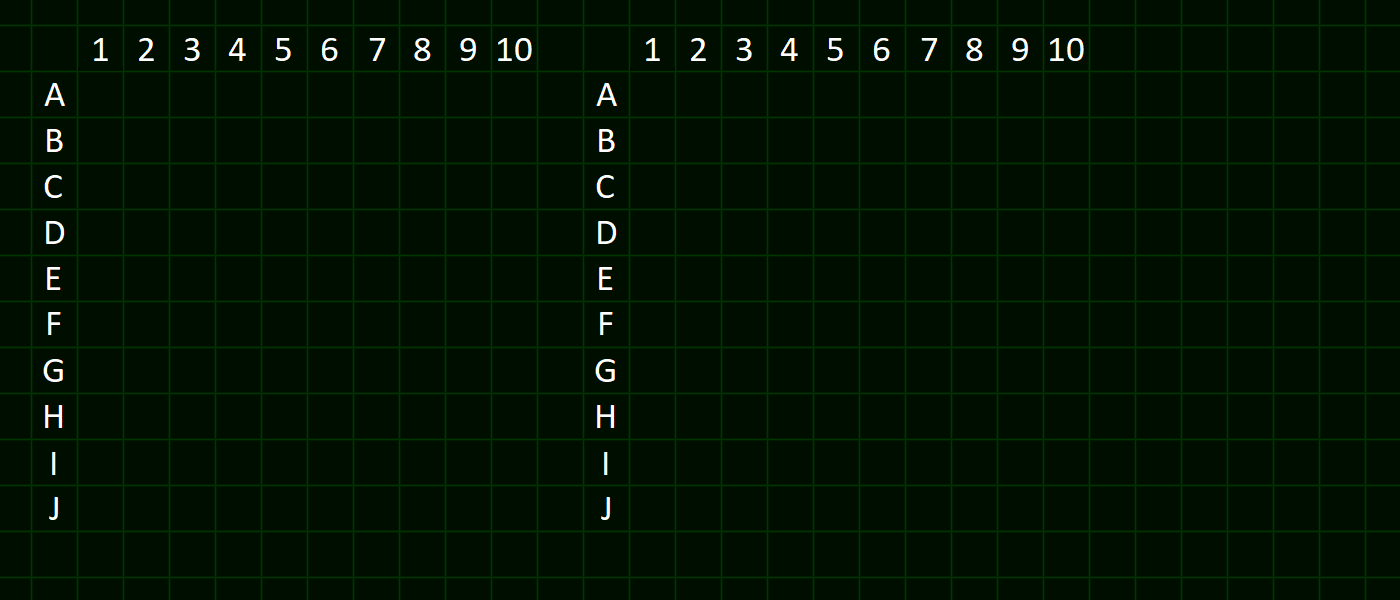
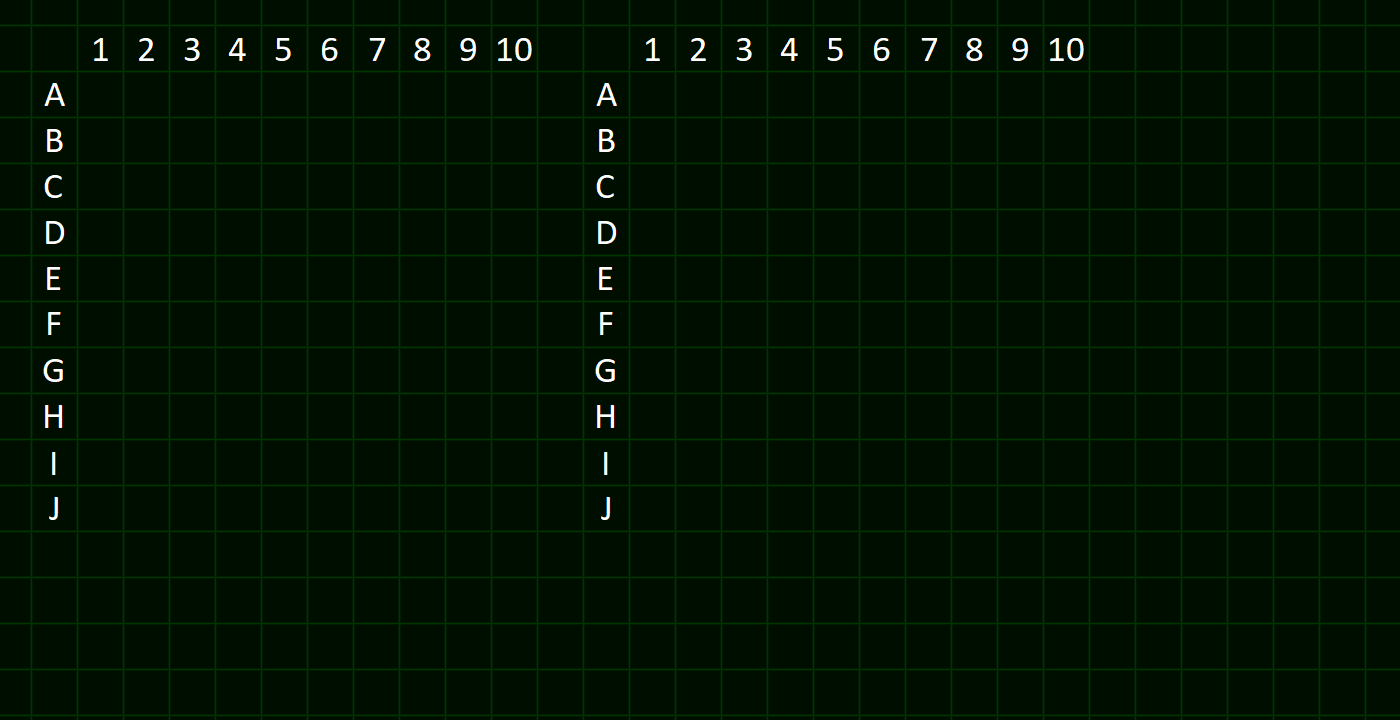
11

diff --git a/src/main/java/org/example/seabattle/Execlass.java b/src/main/java/org/example/seabattle/Execlass.java
@@ -28,8 +28,8 @@ public class Execlass extends Application{
     private final Image splash = new Image("file:src/main/resources/splash.png");
     private final Image targetHit = new Image("file:src/main/resources/cross.png");
     private final Image proximity = new Image("file:src/main/resources/proximity.png");
-    private final Label label1 = new Label("label1 label1 label1");
-    private final Label label2 = new Label("label2 label2 label2");
+    private final Label label1 = new Label(" [ SEA BATTLE ] ");
+    private final Label label2 = new Label("");
     private GridPane grid1 = new GridPane();
     private GridPane grid2 = new GridPane();
     private GridPane grid3 = new GridPane();
@@ -46,10 +46,12 @@ public class Execlass extends Application{
     private Pane[] sidePaneArray = new Pane[4];
     Pane[] paneArrayP1 = new Pane[100];
     Pane[] paneArrayP2 = new Pane[100];
-    private Label[] unitCounter = new Label[4];
+    private final Label[] unitCounter = new Label[4];
     private int player2prepare = 1;
     private boolean visualCheck = true;
     private Process process = new Process();
+    private final Label scCount1 = new Label("Player 1 score: " + process.getScore1());
+    private final Label scCount2 = new Label("Player 2 score: " + process.getScore2());
 
     void clearArea() {
         grid1.getChildren().clear();
@@ -67,10 +69,14 @@ public class Execlass extends Application{
             case 0:
                 grid1.add(p1beginBtn, 2, 4, 7, 1);
                 grid3.getChildren().remove(starterBtn);
+                label1.setText("");
+                label2.setText("");
                 break;
             case 1:
                 grid3.add(rotateBtn, 1, 8, 3, 1);
                 grid2.add(p2beginBtn, 1, 4, 8, 1);
+                label1.setText("click on the right panel");
+                label2.setText("to pick unit");
                 grid1.getChildren().remove(p1beginBtn);
                 prepareFleet();
                 player2prepare = 1;
@@ -79,14 +85,21 @@ public class Execlass extends Application{
                 prepareFleet();
                 grid3.add(rotateBtn, 1, 8, 3, 1);
                 grid2.getChildren().clear();
+                label1.setText("");
+                label2.setText("");
                 visualCheck = false;
                 break;
             case 3:
                 visualCheck = true;
                 grid1.getChildren().clear();
                 grid2.getChildren().clear();
+                grid3.getChildren().remove(enterButton);
+                grid3.add(scCount1, 0, 3, 5, 1);
+                grid3.add(scCount2, 0, 5, 5, 1);
                 process.rebuildSectors();
                 createShootablePanes();
+                grid3.add(starterBtn, 0, 0, 5, 1);
+                starterBtn.setText("FINISH THE BATTLE");
         }
     }
 
@@ -136,7 +149,7 @@ public class Execlass extends Application{
         int subQuantity = 0;
         int cruQuantity = 0;
         int carQuantity = 0;
-        for (Ship ship : process.fleet) {
+        for (Ship ship : process.getFleet()) {
             switch (ship.getShipSize()) {
                 case 1:
                     helQuantity ++;
@@ -344,7 +357,9 @@ public class Execlass extends Application{
                         reticle.setStroke(Color.valueOf("#ffff00"));
                         process.allowFire(true);
                     }
-                    pane.getChildren().add(reticle);
+                    if (pane.getChildren().size() < 1) {
+                        pane.getChildren().add(reticle);
+                    }
             });
             pane.setOnMouseExited(e -> {
                 pane.getChildren().removeAll();
@@ -364,6 +379,7 @@ public class Execlass extends Application{
         int areaToShootAt = sector.getPlayer();
         int x = sector.getCoordinateX();
         int y = sector.getCoordinateY();
+        char a = (char) (y + 65);
         boolean unitHit = false;
         String result;
         if (areaToShootAt == 1) {
@@ -397,7 +413,19 @@ public class Execlass extends Application{
             default:
                 return false;
         }
-        return unitHit;
+        if (areaToShootAt == 2) {
+            if (unitHit) {
+                label2.setText("You hit enemy unit at: " + a  + (x + 1));
+            } else {
+                label2.setText("");
+            }
+            label1.setText("");
+        }
+        if (areaToShootAt == 1) {
+            if (unitHit) {
+                label1.setText("Your unit was hit at: " + a  + (x + 1));
+            }
+        } return unitHit;
     }
 
     void nextTurn(Sector sector) {
@@ -406,8 +434,8 @@ public class Execlass extends Application{
         if (streak)
             return;
         process.setGamestate(4);
-        do {
-            // gdy dodamy możliwość grania na 2 graczy - dodać warunek do computerIsShooting()
+        do {//gdy dodamy możliwość grania na 2 os.- dodać warunek do computerIsShooting()
+
             Sector targetSector = process.computerIsShooting();
             try {
                 Thread.sleep(100);
@@ -418,7 +446,26 @@ public class Execlass extends Application{
         } while (streak);
         process.setGamestate(3);
         int evaluation = process.evaluate();
-        System.out.println(evaluation);
+        if (evaluation != 0) {
+            finish(evaluation);
+        }
+    }
+
+    void finish(int player) {
+        int evaluation;
+        if (player == 0) {
+            evaluation = process.evaluate();
+            player = evaluation;
+        }
+        process.setGamestate(5);
+        grid2.getChildren().clear();
+        visualCheck = true;
+        showArea(process.getP1sectors(), grid1);
+        showArea(process.getP2sectors(), grid2);
+        grid3.getChildren().remove(starterBtn);
+        grid3.add(enterButton, 0, 6, 5, 1);
+        label1.setText("END OF GAME");
+        label2.setText("Player " + player + " wins.");
     }
 
     @Override
@@ -460,6 +507,7 @@ public class Execlass extends Application{
             grid2.getRowConstraints().add(rowConstr);
         }
         // siatka do usunięcia później
+        grid0.setGridLinesVisible(true);
         grid1.setGridLinesVisible(true);
         grid2.setGridLinesVisible(true);
         grid3.setGridLinesVisible(true);
@@ -477,14 +525,20 @@ public class Execlass extends Application{
         // FIXME - podczas ustawiania jednostek zostają zielone kwadraty, a nie powinny.
         // czy da się napisać tak by lambda podała "e" do pick() ?
 
-        label1.setPadding(new Insets(0, 50, 0, 120));
+        label1.setPadding(new Insets(0, 50, 50, 50));
         label1.setFont(new Font("Arial", 32));
         label1.setTextFill(Color.web("#FFF"));
         label1.setTextAlignment(TextAlignment.LEFT);
-        label2.setPadding(new Insets(0, 120, 0, 100));
+        label2.setPadding(new Insets(0, 50, 50, 140));
         label2.setFont(new Font("Arial", 32));
         label2.setTextFill(Color.web("#FFF"));
         label2.setTextAlignment(TextAlignment.JUSTIFY);
+        scCount1.setFont(new Font("Arial", 24));
+        scCount1.setTextFill(Color.web("#FFF"));
+        scCount1.setTextAlignment(TextAlignment.LEFT);
+        scCount2.setFont(new Font("Arial", 24));
+        scCount2.setTextFill(Color.web("#FFF"));
+        scCount2.setTextAlignment(TextAlignment.LEFT);
         activateAiBtn.setFont(new Font("Arial", 20));
         starterBtn.setFont(new Font("Arial", 20));
         p1beginBtn.setFont(new Font("Arial", 20));
@@ -492,7 +546,13 @@ public class Execlass extends Application{
         rotateBtn.setFont( new Font("Arial", 20));
         grid3.add(starterBtn, 0, 4, 4, 1);
 
-        starterBtn.setOnAction(e -> buttonActions());
+        starterBtn.setOnAction(e -> {
+            if (process.getGamestate() == -1) {
+                buttonActions();
+            } else {
+                finish(0);
+            }
+        });
         p1beginBtn.setOnAction(e -> buttonActions());
         p2beginBtn.setOnAction(e -> {
             grid1.getChildren().clear();
@@ -509,15 +569,10 @@ public class Execlass extends Application{
             buttonActions();
             grid3.getChildren().clear();
             player2preparation();
-            grid3.add(clearButton, 0, 0, 4, 1);
-            grid3.add(refreshButton, 0, 2, 4, 1);
+            grid3.add(clearButton, 0, 2, 4, 1);
+            grid3.add(refreshButton, 0, 4, 4, 1);
             grid3.add(enterButton, 0, 6, 5, 1);
-            visualCheck = true;
-            process.autoDeployAll();
-            showArea(process.getP1sectors(), grid1);
-            showArea(process.getP2sectors(), grid2);
-            updateUnitCounter();
-            visualCheck = false;
+            process.autoDeployAll(); //tu winien być argument którą flotę wstawić
         });
         rotateBtn.setOnAction(e -> {
             hullSectors.clear();
@@ -564,7 +619,6 @@ public class Execlass extends Application{
         resetButton.setFont(new Font("Arial", 20));
         grid2.add(resetButton, 0, 2, 4, 1);
         resetButton.setOnAction(e -> {
-            process = new Process();
             clearArea();
             showArea(process.getP1sectors(), grid1);
             showArea(process.getP2sectors(), grid2);
@@ -590,7 +644,13 @@ public class Execlass extends Application{
         grid0.add(label1, 0, 1);
         grid0.add(label2, 1, 1);
 
-        Scene scene = new Scene(grid0, 1400, 600, Color.BLACK);
+        ColumnConstraints constrX460 = new ColumnConstraints(460);
+        RowConstraints constrY560 = new RowConstraints(560);
+        grid0.getRowConstraints().add(constrY560);
+        grid0.getColumnConstraints().add(constrX460);
+
+
+        Scene scene = new Scene(grid0, 1400, 720, Color.BLACK);
         primaryStage.setTitle("seaBattle");
         primaryStage.setScene(scene);
         primaryStage.show();

diff --git a/src/main/java/org/example/seabattle/Process.java b/src/main/java/org/example/seabattle/Process.java
@@ -9,13 +9,15 @@ import java.util.Random;
 
 public class Process {
     private int gamestate = -1;
+    private int score1 = 0;
+    private int score2 = 0;
     private Ship unitInProcess;
     private boolean placementAllowed = true;
     private boolean fireFree = false;
     private final List<Sector> p1sectors = new LinkedList<>();
     private final List<Sector> p2sectors = new LinkedList<>();
     private List<Sector> dummies = new ArrayList<>();
-    List<Ship> fleet = new LinkedList<>();
+    private List<Ship> fleet = new LinkedList<>();
     List<Ship> p1fleet = new ArrayList<>();
     List<Ship> p2fleet = new ArrayList<>();
 
@@ -291,63 +293,39 @@ public class Process {
     }
 
     Sector computerIsShooting() {
+        int index = 0;
         Random random = new Random();
-        int target = random.nextInt(100);
-        return p1sectors.get(target);
+        for (int i = 0; i < 3; i ++) {
+            index = random.nextInt(100);
+            Sector targetSector = p1sectors.get(index);
+            if (!targetSector.getStatus().startsWith("exposed")) {
+                break;
+            }
+        }
+        return p1sectors.get(index);
     }
 
     int evaluate() {
-        int sunk1 = 0, sunk2 = 0;
-        for (Ship ship1 : p1fleet) {
-            if (ship1.getSunk()) {
-                sunk1 ++;
+        score1 = score2 = 0;
+        for (Sector s2 : p2sectors) {
+            if (s2.getStatus().equals("exposed_hull") || s2.getStatus().equals("exposed_origin")) {
+                score1 ++;
             }
         }
-        for (Ship ship2 : p2fleet) {
-            if (ship2.getSunk()) {
-                sunk2 ++;
+        for (Sector s1 : p1sectors) {
+            if (s1.getStatus().equals("exposed_hull") || s1.getStatus().equals("exposed_origin")) {
+                score2 ++;
             }
         }
-        int remains1 = 10 - sunk1;
-        int remains2 = 10 - sunk2;
-        if (gamestate == 5) {
-            int score1 = 0, score2 = 0;
-            if (remains1 > remains2) {
+        System.out.println("score1= " + score1 + "; score2= " + score2);
+        if (score1 >= 20 || score2 >= 20) {
+            if (score1 > score2) {
                 return 1;
             }
-            if (remains2 > remains1) {
+            if (score2 > score1) {
                 return 2;
             }
-            if (remains1 == remains2) {
-                for (Sector s1 : p1sectors) {
-                    if (s1.getStatus().equals("exposed_hull") || s1.getStatus().equals("exposed_origin")) {
-                        score1 ++;
-                    }
-                }
-                for (Sector s2 : p2sectors) {
-                    if (s2.getStatus().equals("exposed_hull") || s2.getStatus().equals("exposed_origin")) {
-                        score2 ++;
-                    }
-                }
-                if (score1 > score2) {
-                    return 1;
-                }
-                if (score2 > score1) {
-                    return 2;
-                } else {
-                    return 3;
-                }
-            }
-        } else {
-            if (remains1 < 1) {
-                return 2;
-            }
-            if (remains2 < 1) {
-                return 1;
-            }
-        }
-        System.out.println("remains1= " + remains1 + "; remains2= " + remains2);
-        return 0;
+        } return 0;
     }
 
     //funkcja wykrywania trafień
@@ -374,6 +352,14 @@ public class Process {
 
     public List<Sector> getP2sectors() {
         return p2sectors;
+    }
+
+    public int getScore1() {
+        return score1;
+    }
+
+    public int getScore2() {
+        return score2;
     }
 
     public List<Ship> getFleet() {
